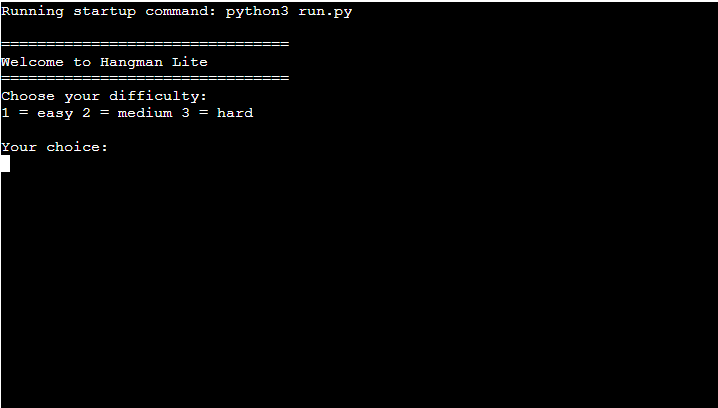
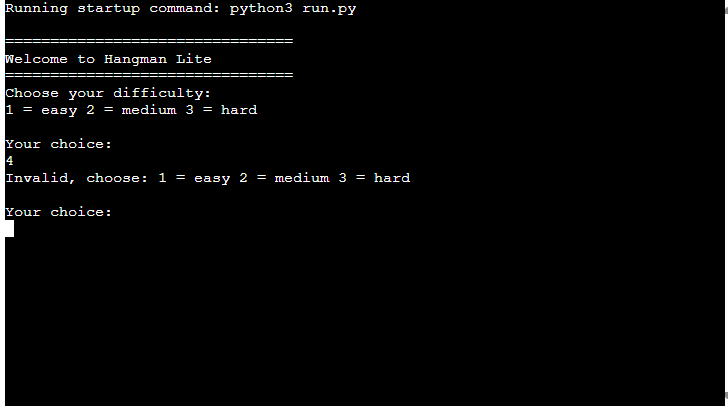
update readme: add to testing, future devs, deployment, library/programs and credits

Changed region(s): [[0.0, 0.0, 1.0, 1.0], [0.2145, 0.4138, 0.5822, 0.4729], [0.1226, 0.4138, 0.1838, 0.4729]]

diff --git a/README.md b/README.md
@@ -66,6 +66,7 @@ If an invalid input is recieved, the player is notfied of this and prompted to t
 
 ![Invalid-input](readme-images/invalid-input.png)
 
+
 Once a valid input has been recieved, the game begins. The player is presented with a word to guess that has been randomly selected along with a hint to guess the word. In addition to this, the player is also made aware of the number of attempts they have to guess the word:
 
 ![new game](readme-images/new-game.png)
@@ -126,36 +127,47 @@ These inputs again are validated to only recieve the correct specified input. If
 
 ### Validation Testing
 
+The site has been tested with the following:
+
+* Python
+   * No errors returned when running the code on the CI Python linter [Code Institute Python Linter.](https://pep8ci.herokuapp.com/)
+
 ### Manual Testing
 
 The following manual testing was carried out to confirm if the game performed as required and results matched the expected output.
 
 | Test  | Test Step/Action                    |Input Type         |Expected                      |Result                                                        | Result|
 | :----:|:------------------------------------|:-----------------:|:-----------------------------------------------------------------------|:-----------------------------------------------|:--------:| 
-| 1     |Enter invalid difficulty             |int/string/symbol  |Error, asked to try again                                               |Invalid input identified. Try again             |Pass      | 
+| 1     |Enter invalid difficulty             |e.g 4/a/?          |Error, asked to try again                                               |Invalid input identified. Try again             |Pass      | 
 | 2     |Enter valid difficulty               |1, 2, 3            |Start game                                                              |Game started                                    |Pass      |
 | 3     |Enter number                         |int                |Validate and inform incorrect input                                     |Input validated correctly - asked to try again  |Pass      |
 | 4     |Enter space                          |space              |validate and inform incorrect input                                     |Input validated correctly - asked to try again  |Pass      |
 | 5     |More than one letter                 |string             |validate and inform incorrect input                                     |Input validated correctly - asked to try again  |Pass      |
 | 6     |letter found                         |string             |update letter(s) in word                                                |Word updated                                    |Pass      |
 | 7     |letter not in word                   |string             |reduce attempt, record letter used                                      |attempt reduced, letter recorded                |Pass      |
-| 8     |word guessed                         |string             |increment won score, summary of game, option to play again, reset, quit |Input validated correctly - asked to try again  |Pass      |
-| 9     |word not guessed/attempts finished   |string             |increment lost score, summary of game, option to play again, reset, quit|Input validated correctly - asked to try again  |Pass      |
+| 8     |word guessed                         |string             |increment won score, summary of game, option to play again, reset, quit |Input validated correctly - options given       |Pass      |
+| 9     |word not guessed/attempts finished   |string             |increment lost score, summary of game, option to play again, reset, quit|Input validated correctly - options given       |Pass      |
 | 10    |play again                           |string: "y"        |load new game, running totals for won/lost                              |new game loaded, totals kept                    |Pass      |
 | 11    |reset game                           |string: "r"        |load new game, reset won/lost totals                                    |new game loaded, totals reset                   |Pass      |
 | 12    |quit game (at end or during)         |string: "q"/ "quit"|terminate the game                                                      |game terminated                                 |Pass      |
 | 13    |enter "help"                         |string: "help"     |show the rules on demand                                                |rules shown whenever typed                      |Pass      |
 
+### API Testing
 
+The API has been tested to ensure that the game works correctly when there is data in the google sheet in the format `word:hint`.
 
+Should there be no data present, the game will sucessfully pick this up and exit:
+
+![Google sheets error](readme-images/google-sheets-error.png)
 
 
 ### Future Developments
 
-There are two potential future developments for this project.
+There are three potential future developments for this project.
 
 1. Expand the difficulty level - generate the complexity of the word/clue based on the difficulty selected.
 2. A scores table showing the top wins with the least attempts used.
+3. Retrieval of the words: should the API fail for any reason, add in option to read them in locally from a text file and would prevent any negative user experience.
 
 ## Site Production, Deployment and Contribution  
 
@@ -169,12 +181,38 @@ The site was created using Gitpod’s VS Code workspace environment with all the
 
 3 `git push` - (changes are pushed out up to the GitHub repository).
 
-The words and clues for the game have been imported using an API for google sheets. This was implemented  using the CI sandwiches project tutorial and is referenced in the "Frameworks, Libraries and Programs Used" below.
-
-
 ### Deployment
 
-The live link to the site can be found here: [Hangman Lite](https://hangman-lite-2cf8212eb558.herokuapp.com/)
+The site was deployed using Heroku. The steps to deploy are as follows:
+
+1. login to Heroku
+2. Select "create new app" 
+3. Create app 
+4. Select "Settings" tab at the top
+5. Scroll down to "Buildpacks" and add **in the following order:**
+    * `heroku/python`
+    * `heroku/nodejs`
+6. Scroll down to "Config Vars" and add the following:
+    * `Key: PORT`
+    * `value: 8000`
+
+**Note:** If you have credentials, you must create another _Config Var_ called `CREDS` and paste the JSON into the value field.
+
+7. Go to the "Deploy" tab at the top
+8. Select "Github" as the Deployment method
+9. Select "Connect to Github"
+10. Search for your GitHub repository and click connect. Once connected, it will show as follows:
+
+![Heroku/github connection](readme-images/heroku-github.png)
+
+11. Scroll down to "Manual deploy" and click "Deploy branch". The app will start to build installing the various packages listed and the dependencies from the `requirements.txt` file. Once complete, click on the "view" button which will take you to the live site:
+
+![sucessful deployment](readme-images/sucessful-deployment.png)
+
+There is also the option to "Enable Automatic Deploys" which will build the app as soon as it is pushed to the GitHub repository and can be used if preferred.
+
+The live link to the site can be found here: [Hangman Lite.](https://hangman-lite-2cf8212eb558.herokuapp.com/)
+
 
 ### Contribution
 
@@ -189,35 +227,99 @@ Github has provided step by step instructions on how to do this [here.](https://
  * Python   
 ### Frameworks, Libraries and Programs Used
 
-* The following librarys were used:
+* #### The following librarys were used:
     * import random
     * import sys
     * import gspread
      from google.oauth2.service_account import Credentials
 
-* The following requirements were defined in the requirements.txt file for API conection to google sheets (also needed for deployment):
+* #### The following requirements were defined in the requirements.txt file for API conection to google sheets (also needed for deployment):
 
-    * cachetools==5.5.0
-    * google-auth==2.35.0
-    * google-auth-oauthlib==1.2.1
-    * gspread==6.1.4
-    * oauthlib==3.2.2
-    * pyasn1==0.6.1
-    * pyasn1_modules==0.4.1
-    * requests-oauthlib==2.0.0
-    * rsa==4.9
+     `cachetools==5.5.0`
 
-* Google sheets: 
+     `google-auth==2.35.0`
 
-    * Google sheets has been used to store the words used in the game and have been imported in using the API. 
+     `google-auth-oauthlib==1.2.1`
+
+     `gspread==6.1.4`
+
+     `oauthlib==3.2.2`
+
+     `pyasn1==0.6.1`
+
+     `pyasn1_modules==0.4.1`
+
+     `requests-oauthlib==2.0.0`
+
+     `rsa==4.9`
+
+* #### Google sheets: 
+
+    * Google sheets has been used to store the words used in the game and have been imported in using an API. 
+
+* #### Git/Gitpod:
+
+  * Gitpod’s workspace was used using the VSCode online editor using git to push to GitHub using version control. 
+
+* #### GitHub:
+
+  * GitHub has been used to store the version control repository for the project.
+
+* #### Heroku:
+
+  * Heroku has been used to build and deploy the project.
+
+* #### Figma: [Figma: The Collaborative Interface Design Tool](https://figma.com/)
+
+  * Figma has been used to create the process map and the UX illustrations of the site.
 
      
 ## Credits
 ### Content
+* The words used for the game were sourced from [The Game Gal.](https://www.thegamegal.com/wp-content/uploads/2011/11/Pictionary-Words-Medium.pdf) The hints were added in manually.
 
+*   The implementation of the google Sheets API was done by following the [Love Sandwiches - Essentials CI Project.](https://learn.codeinstitute.net/courses/course-v1:CodeInstitute+LS101+1/courseware/293ee9d8ff3542d3b877137ed81b9a5b/071036790a5642f9a6f004f9888b6a45/) and adapted to the naming convention of my project.
+
+    * The code used from the project above is:
+
+      ```
+          import gspread
+          from google.oauth2.service_account import Credentials
+
+          CREDS = Credentials.from_service_account_file('creds.json')
+          SCOPED_CREDS = CREDS.with_scopes(SCOPE)
+          GSPREAD_CLIENT = gspread.authorize(SCOPED_CREDS)
+          SHEET = GSPREAD_CLIENT.open('hagman_lite_words')
+          get_words = SHEET.worksheet('words')
+      ```
+* The implementation of the python exit function was done by following the tutorial [Python Exit – How to Use an Exit Function in Python to Stop a Program by Shittu Olumide ](https://www.freecodecamp.org/news/python-exit-how-to-use-an-exit-function-in-python-to-stop-a-program/)
+
+    * The code used from the tutorial is:
+    ```
+    import sys
+    ...
+    sys.exit(0)
+    ```
+* The reading in the rules from a text file was utilised from Code Institute's [Python Essentials: Python I/O Exception Handling > Reading Data From a File.](https://learn.codeinstitute.net/courses/course-v1:CodeInstitute+CPP_06_20+3/courseware/e38bbf480aec434f9f00f0bf6285e35c/b2704e108fc94223bd931f672cf929d4/) 
+
+  * The code utilised (and adapted into my project) was:
+    
+    ```
+      file = open("instructions.txt", 'r')
+        instructions = file.read()
+        print(instructions)
+        file.close()
+    ```
 ### General
+* The following resources have been used as a general  guide for python and it's built in functions:
 
+  * [Python Tutor](https://pythontutor.com/visualize.html#mode=edit) 
+  * [W3Schools](https://www.w3schools.com/python/default.asp) 
+  * [PEP 8 – Style Guide for Python Code](https://peps.python.org/pep-0008/)
+  * [Learnpython.org](https://www.learnpython.org/)
+  * [The Python Tutorial - Python Docs](https://docs.python.org/3/tutorial/index.html)
   
 ## Overall Credit
 
+A huge thank you to Code Institute for the learning and lesson material which has been amazing and my fellow students on Slack for their support! 
 ## Personal Summary
